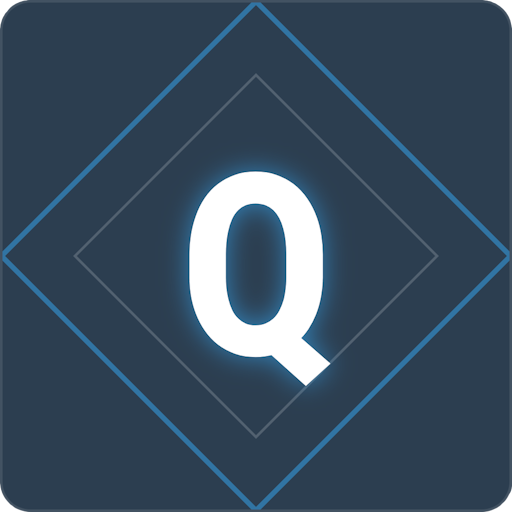
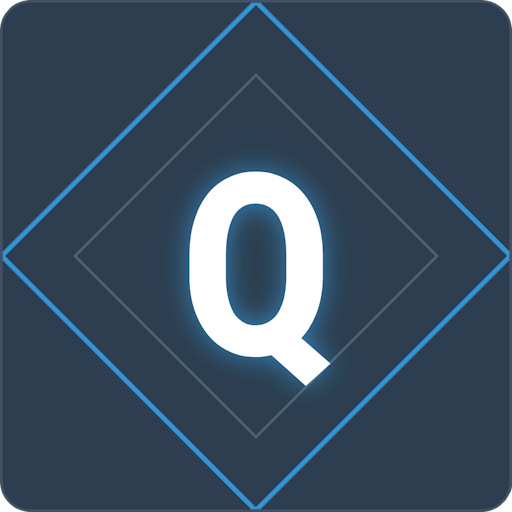
1.1

diff --git a/README.md b/README.md
@@ -1,2 +1,5 @@
 # step-to-Qj2
 数検準二級の対策問題を出すサイト
+
+# 1.1
+ロゴの変更
